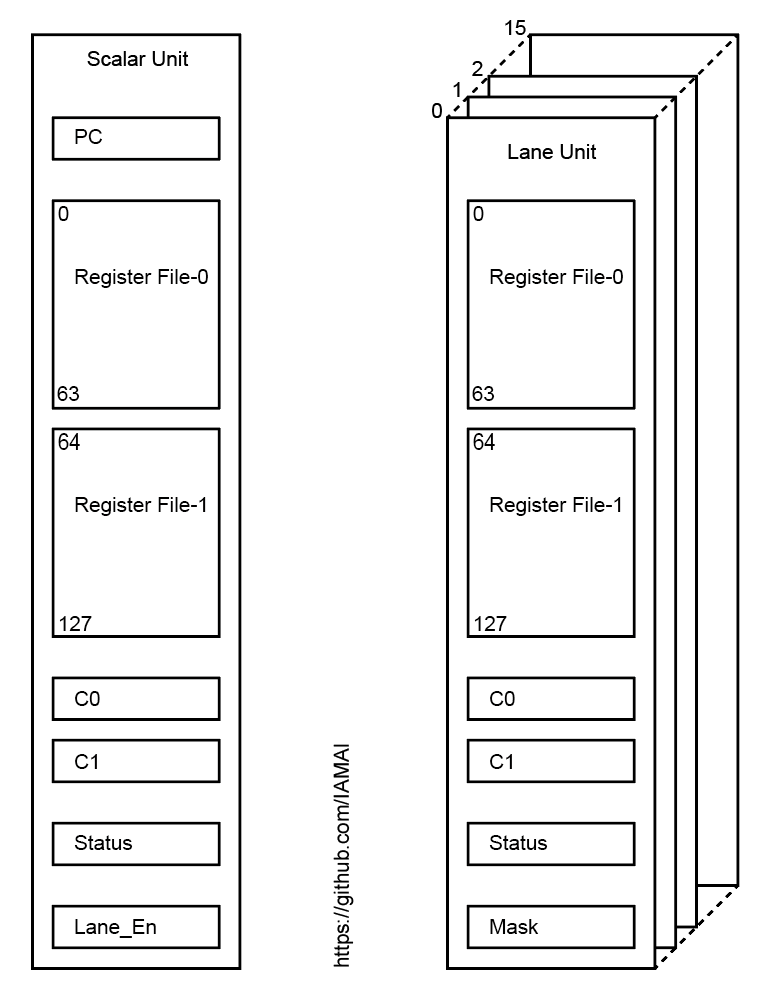
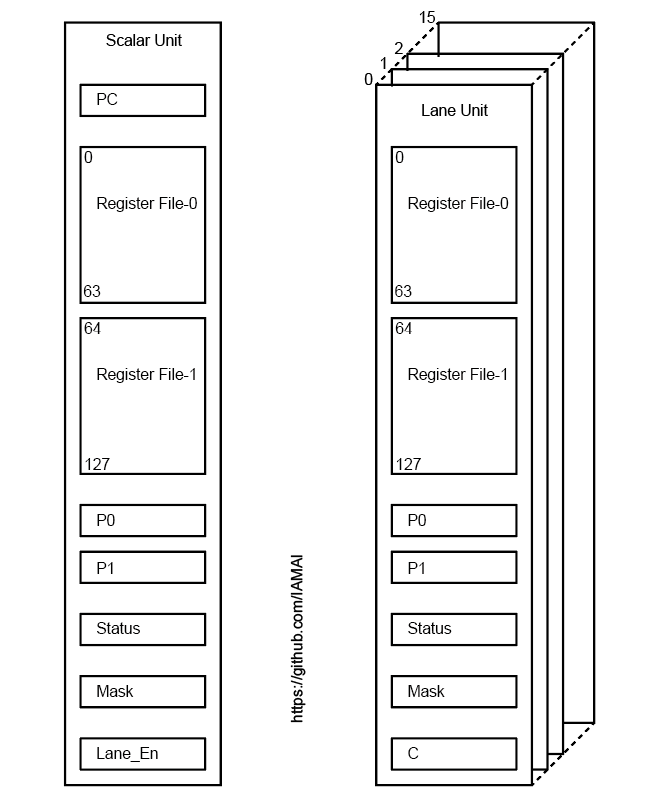
update: note (register-map)

Changed region(s): [[0.5446, 0.0, 0.9682, 1.0], [0.0303, 0.0, 0.3328, 1.0], [0.4236, 0.697, 0.4841, 1.0]]

diff --git a/notes/Microarch/TPU/README_TPU_RegisterMap.md b/notes/Microarch/TPU/README_TPU_RegisterMap.md
@@ -2,10 +2,11 @@
 
 下の図はTPUのレジスタマップを示します。
 レジスタのセットはスカラユニットとベクトルユニットで大別できます。
-ベクトルニットはレーン数の分マップを持ちます。
-スカラとベクトルレーンのレジスタマップ上共通部分はレジスタファイルCレジスタ、そして状態レジスタです。
+ベクトルユニットはレーン数の分マップを持ちます。
+スカラとベクトルレーンのレジスタマップ上共通部分はレジスタファイル、Pレジスタ、そして状態レジスタです。
+
 レジスタファイルは二つに分割されています。
-各レジスタは2リードポート1ライトポートの構成です。
+各レジスタファイルは2リードポート、1ライトポートの構成です。
 スライシングを用いる場合は二つのうちどちらか一方に適用され複数のレジスタファイルを横断するような読み書きはできません。
 
 
@@ -22,10 +23,16 @@
 スカラユニットでは分岐命令により状態レジスタを参照して分岐条件とともに評価を行いPC値を更新します。
 ベクトルレーンでは比較命令により状態レジスタを参照しながらスライシング時にマスクレジスタへ順次書き込んでいきます。
 分岐命令でそのマスクレジスタ内容の評価方法を決めます。
-マスクを利用した命令実行を指示する命令の発行後、以降の命令はそのマスクレジスタの値に従って個々の命令を実行するかしないかを決めます。
+マスクを利用した命令実行を指示する命令の発行後、各ベクトルレーンでの以降の命令はそのマスクレジスタの値に従って個々の命令を実行するかしないかを決めます。
 そしてマスクを利用しない命令実行を指示する命令発行と共に以降の命令はマスクデータを条件とせず通常の実行を行います。
 
-スカラユニットはマスクレジスタではなくベクトルユニット内の全てのレーンの使用許可を制御するレジスタLane_Enレジスタを持っています。
+スカラユニットとベクトルレーンは演算ユニット内のパイプラインレジスタ（Pレジスタ）へアクセスできます。
+移動命令で累和のような自己参照演算の初期値をそのレジスタへ書き込んだり、結果を読み出したりできるようにします。
+
+スカラユニットはマスクレジスタを持っていますが、これはベクトルレーンでのレジスタファイル読み書きのマスクフラグで構成されています。
+マスクレジスタは読み出しマスクと書き込みフラグの二つで構成されていて各ビット位置は各ベクトルレーンに対応しています。
+各読み出しマスクフラグと各ベクトルレーンの命令内の読み出し有効フラグ、各書き込みマスクフラグと各ベクトルレーンの命令内の書き込み有効フラグをマスクすることで読み書きを有効・無効にできます。
+また、ベクトルユニット内の全てのレーンの使用許可を制御するレジスタLane_Enレジスタを持っています。
 このレジスタの各ビットは各レーンと一対一に対応していて、フラグをセットすることで対応するレーンでのパイプライン動作を制御します。
 これにより実行に不要なレーンの動作を停止させることができます。
 例えばこれはリダクション演算でツリー構成のデータフローを実現する際に使用します。

diff --git a/notes/ExecConcept/BLAS_Level3/Matrix-Matrix_Multiplication.md b/notes/ExecConcept/BLAS_Level3/Matrix-Matrix_Multiplication.md
@@ -26,6 +26,7 @@ BLASEngineは行列積C=ABをサポートしています。
 これは上図での横方向の各行がレーンに相当します。
 乗算結果をネットワークを通して適切なレーンへローテートを通して転送し転送先レーンで累和に使用します。
 これはシストリックアレイ演算に相当します。
+このためインデックスユニット内の遅延回路を使用してイニシエートインターバルをエミュレートします。
 転地したBの場合結果の行列Cも転地した配置で得ます。
 この演算では三項演算（MAD）を前提とします。
 
